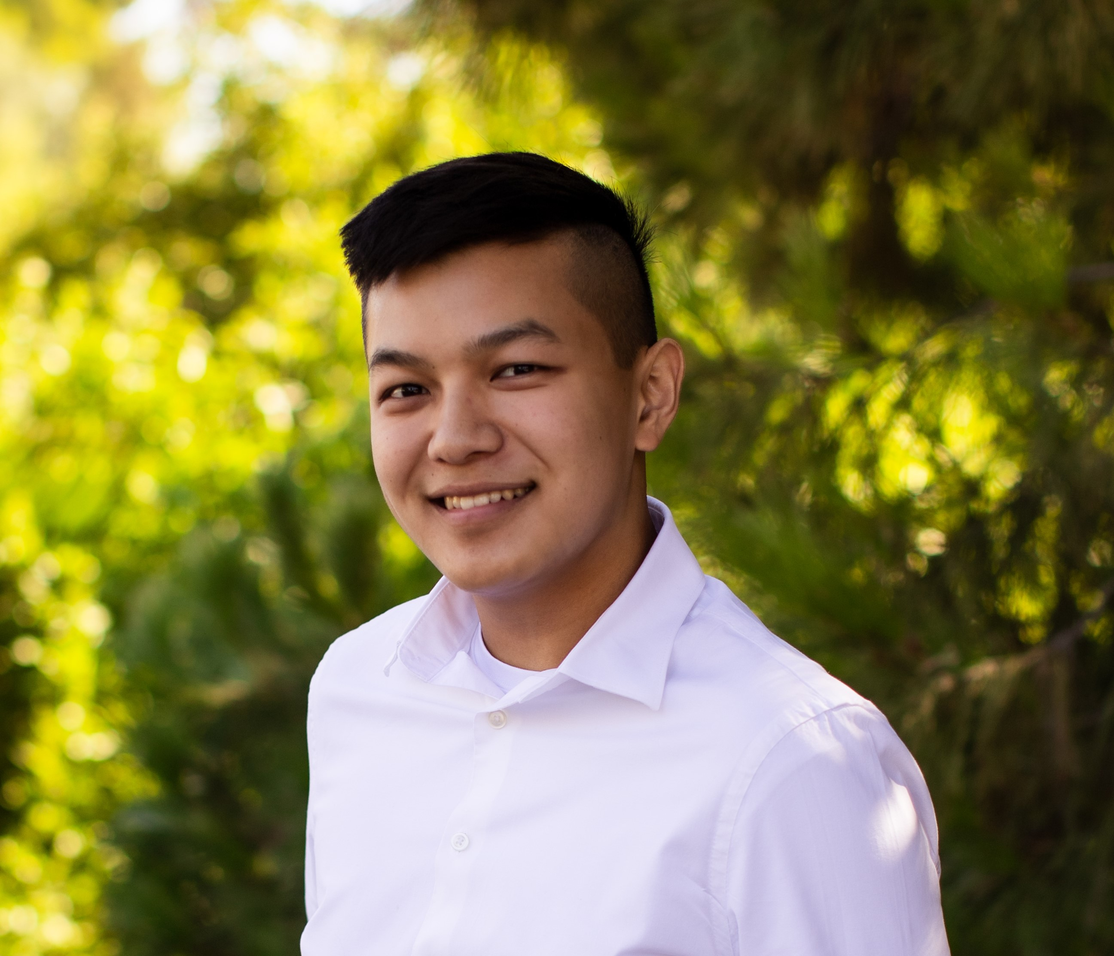
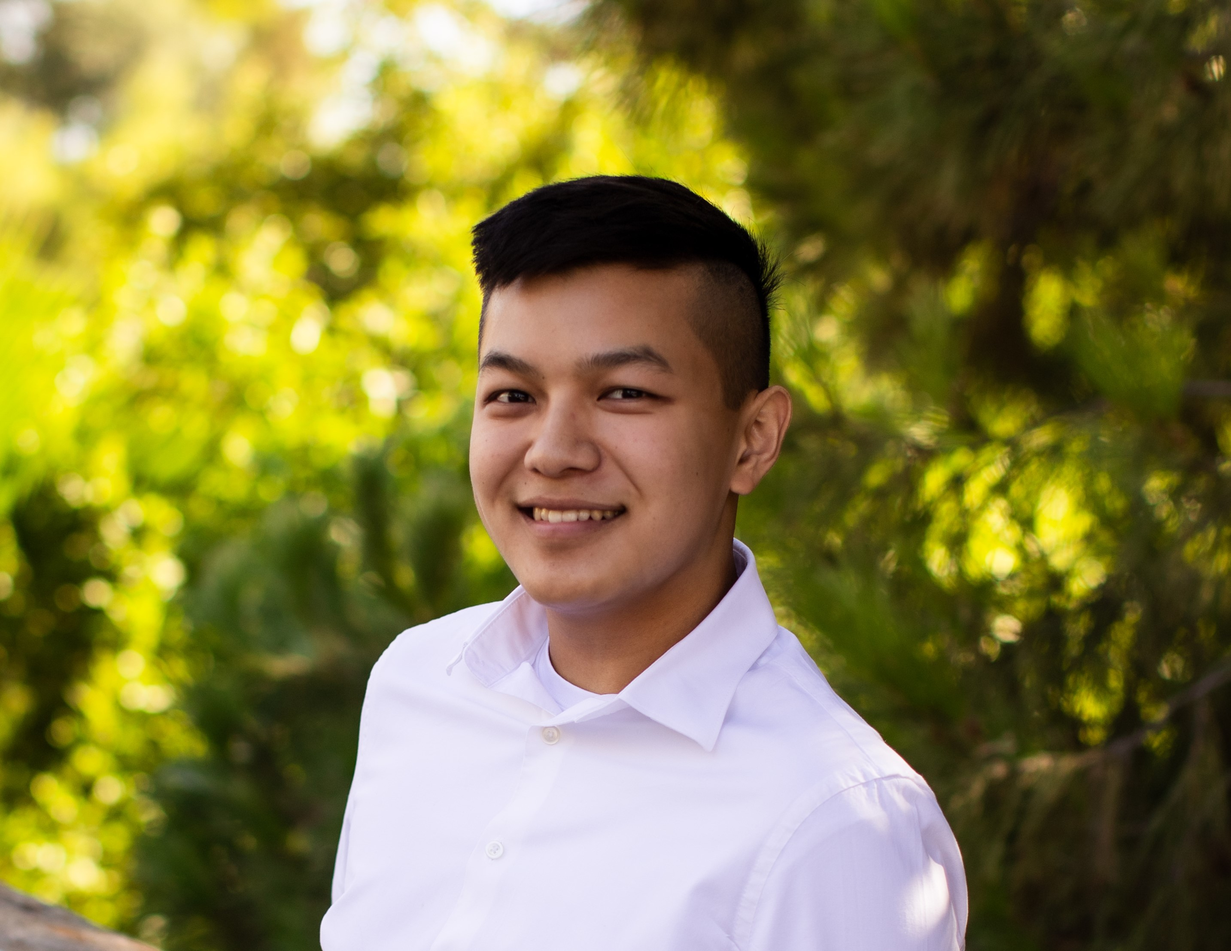
update profile photo

diff --git a/_pages/about.md b/_pages/about.md
@@ -1,49 +1,12 @@
 ---
 permalink: /
-title: "academicpages is a ready-to-fork GitHub Pages template for academic personal websites"
+title: "About"
 author_profile: true
 redirect_from: 
   - /about/
   - /about.html
 ---
 
-This is the front page of a website that is powered by the [academicpages template](https://github.com/academicpages/academicpages.github.io) and hosted on GitHub pages. [GitHub pages](https://pages.github.com) is a free service in which websites are built and hosted from code and data stored in a GitHub repository, automatically updating when a new commit is made to the respository. This template was forked from the [Minimal Mistakes Jekyll Theme](https://mmistakes.github.io/minimal-mistakes/) created by Michael Rose, and then extended to support the kinds of content that academics have: publications, talks, teaching, a portfolio, blog posts, and a dynamically-generated CV. You can fork [this repository](https://github.com/academicpages/academicpages.github.io) right now, modify the configuration and markdown files, add your own PDFs and other content, and have your own site for free, with no ads! An older version of this template powers my own personal website at [stuartgeiger.com](http://stuartgeiger.com), which uses [this Github repository](https://github.com/staeiou/staeiou.github.io).
+Hello! As a current second-year Computer Science major at UCSD, I'm looking to expand my arsenal of coding languages and broaden my experiences in software development. 
 
-A data-driven personal website
-======
-Like many other Jekyll-based GitHub Pages templates, academicpages makes you separate the website's content from its form. The content & metadata of your website are in structured markdown files, while various other files constitute the theme, specifying how to transform that content & metadata into HTML pages. You keep these various markdown (.md), YAML (.yml), HTML, and CSS files in a public GitHub repository. Each time you commit and push an update to the repository, the [GitHub pages](https://pages.github.com/) service creates static HTML pages based on these files, which are hosted on GitHub's servers free of charge.
-
-Many of the features of dynamic content management systems (like Wordpress) can be achieved in this fashion, using a fraction of the computational resources and with far less vulnerability to hacking and DDoSing. You can also modify the theme to your heart's content without touching the content of your site. If you get to a point where you've broken something in Jekyll/HTML/CSS beyond repair, your markdown files describing your talks, publications, etc. are safe. You can rollback the changes or even delete the repository and start over -- just be sure to save the markdown files! Finally, you can also write scripts that process the structured data on the site, such as [this one](https://github.com/academicpages/academicpages.github.io/blob/master/talkmap.ipynb) that analyzes metadata in pages about talks to display [a map of every location you've given a talk](https://academicpages.github.io/talkmap.html).
-
-Getting started
-======
-1. Register a GitHub account if you don't have one and confirm your e-mail (required!)
-1. Fork [this repository](https://github.com/academicpages/academicpages.github.io) by clicking the "fork" button in the top right. 
-1. Go to the repository's settings (rightmost item in the tabs that start with "Code", should be below "Unwatch"). Rename the repository "[your GitHub username].github.io", which will also be your website's URL.
-1. Set site-wide configuration and create content & metadata (see below -- also see [this set of diffs](http://archive.is/3TPas) showing what files were changed to set up [an example site](https://getorg-testacct.github.io) for a user with the username "getorg-testacct")
-1. Upload any files (like PDFs, .zip files, etc.) to the files/ directory. They will appear at https://[your GitHub username].github.io/files/example.pdf.  
-1. Check status by going to the repository settings, in the "GitHub pages" section
-
-Site-wide configuration
-------
-The main configuration file for the site is in the base directory in [_config.yml](https://github.com/academicpages/academicpages.github.io/blob/master/_config.yml), which defines the content in the sidebars and other site-wide features. You will need to replace the default variables with ones about yourself and your site's github repository. The configuration file for the top menu is in [_data/navigation.yml](https://github.com/academicpages/academicpages.github.io/blob/master/_data/navigation.yml). For example, if you don't have a portfolio or blog posts, you can remove those items from that navigation.yml file to remove them from the header. 
-
-Create content & metadata
-------
-For site content, there is one markdown file for each type of content, which are stored in directories like _publications, _talks, _posts, _teaching, or _pages. For example, each talk is a markdown file in the [_talks directory](https://github.com/academicpages/academicpages.github.io/tree/master/_talks). At the top of each markdown file is structured data in YAML about the talk, which the theme will parse to do lots of cool stuff. The same structured data about a talk is used to generate the list of talks on the [Talks page](https://academicpages.github.io/talks), each [individual page](https://academicpages.github.io/talks/2012-03-01-talk-1) for specific talks, the talks section for the [CV page](https://academicpages.github.io/cv), and the [map of places you've given a talk](https://academicpages.github.io/talkmap.html) (if you run this [python file](https://github.com/academicpages/academicpages.github.io/blob/master/talkmap.py) or [Jupyter notebook](https://github.com/academicpages/academicpages.github.io/blob/master/talkmap.ipynb), which creates the HTML for the map based on the contents of the _talks directory).
-
-**Markdown generator**
-
-I have also created [a set of Jupyter notebooks](https://github.com/academicpages/academicpages.github.io/tree/master/markdown_generator
-) that converts a CSV containing structured data about talks or presentations into individual markdown files that will be properly formatted for the academicpages template. The sample CSVs in that directory are the ones I used to create my own personal website at stuartgeiger.com. My usual workflow is that I keep a spreadsheet of my publications and talks, then run the code in these notebooks to generate the markdown files, then commit and push them to the GitHub repository.
-
-How to edit your site's GitHub repository
-------
-Many people use a git client to create files on their local computer and then push them to GitHub's servers. If you are not familiar with git, you can directly edit these configuration and markdown files directly in the github.com interface. Navigate to a file (like [this one](https://github.com/academicpages/academicpages.github.io/blob/master/_talks/2012-03-01-talk-1.md) and click the pencil icon in the top right of the content preview (to the right of the "Raw | Blame | History" buttons). You can delete a file by clicking the trashcan icon to the right of the pencil icon. You can also create new files or upload files by navigating to a directory and clicking the "Create new file" or "Upload files" buttons. 
-
-Example: editing a markdown file for a talk
-![Editing a markdown file for a talk](/images/editing-talk.png)
-
-For more info
-------
-More info about configuring academicpages can be found in [the guide](https://academicpages.github.io/markdown/). The [guides for the Minimal Mistakes theme](https://mmistakes.github.io/minimal-mistakes/docs/configuration/) (which this theme was forked from) might also be helpful.
+I have been working with Java and C for over a year, just recently picking up C++ at the start of 2024. I also have experience with ARM Assembly, Bash, and GitHub.
